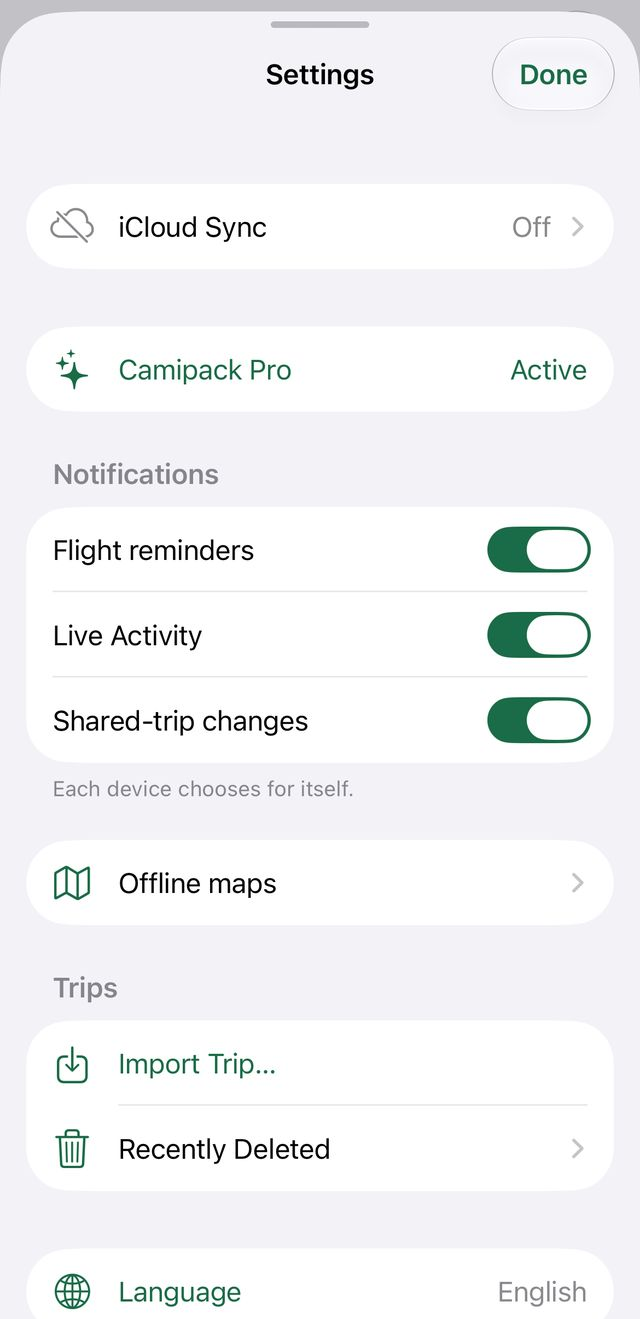
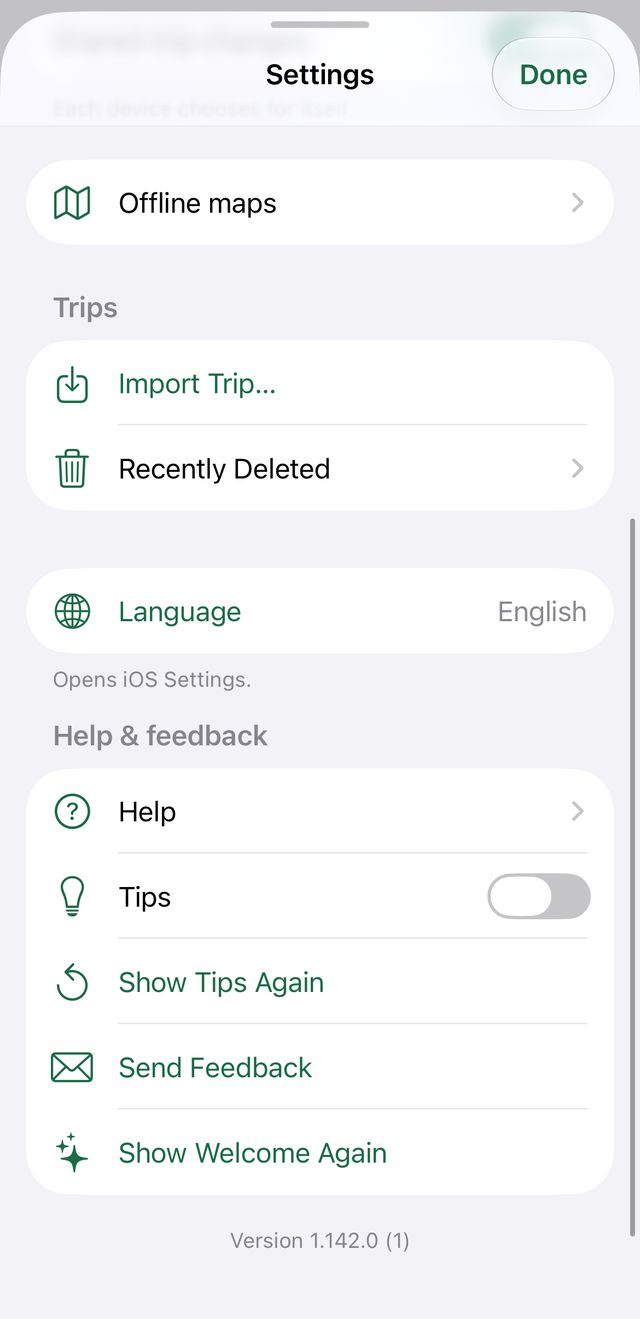
fix(guides): Settings shots without Pro status
Re-captured four Settings steps on a plain install so the Pro row
shows no "Active" badge; the privacy step now shows Send Feedback.

Claude-Session: https://claude.ai/code/session_01AAxPpWSm55AgTGJcXfUx3h

diff --git a/docs/guides/travel.html b/docs/guides/travel.html
@@ -93,7 +93,7 @@
     <li class="gstep"><div><span class="num">2</span><p>Or add one by hand: in a day, tap + and choose Travel. Type the flight number and tap “Check flight”.</p></div>
       <div class="phone"><div class="shot"><img src="img/travel-2.jpg" alt="Step 2: Flights, trains and ferries" loading="lazy"><span class="tap zone" aria-hidden="true" style="left:5.8%;top:91.8%;width:88.4%;height:7.4%"></span></div></div></li>
     <li class="gstep"><div><span class="num">3</span><p>You are reminded the evening before, and five hours before departure. Both can be switched off in Settings, under Notifications.</p></div>
-      <div class="phone"><div class="shot"><img src="img/travel-3.jpg" alt="Step 3: Flights, trains and ferries" loading="lazy"><span class="tap zone" aria-hidden="true" style="left:4.4%;top:38.8%;width:91.2%;height:6.2%"></span></div></div></li>
+      <div class="phone"><div class="shot"><img src="img/travel-3.jpg" alt="Step 3: Flights, trains and ferries" loading="lazy"><span class="tap zone" aria-hidden="true" style="left:4.4%;top:40.4%;width:91.2%;height:6.3%"></span></div></div></li>
     <li class="gstep"><div><span class="num">4</span><p>Tap the Lock Screen card to open the flight: its status, directions to the terminal, and the ticket you filed.</p></div>
       <div class="phone"><div class="shot"><img src="img/travel-4.jpg" alt="Step 4: Flights, trains and ferries" loading="lazy"></div></div></li>
     <li class="gstep noshot"><div><span class="num">5</span><p>Trains, buses and ferries work the same way, in their own words — a train has a platform, a ferry has a berth.</p></div></li>

diff --git a/docs/guides/sharing.html b/docs/guides/sharing.html
@@ -94,7 +94,7 @@
       <div class="phone"><div class="shot"><img src="img/sharing-2.jpg" alt="Step 2: Share a trip with family or friends" loading="lazy"><span class="tap ring" aria-hidden="true" style="left:57.5%;top:2.3%;width:13.0%;height:6.8%"></span></div></div></li>
     <li class="gstep noshot"><div><span class="num">3</span><p>The other person taps the link and then “Join Trip”. The trip appears in their Camipack.</p></div></li>
     <li class="gstep"><div><span class="num">4</span><p>Settings on the home screen shows sync status — tap it, then iCloud Sync, for details or to pause syncing.</p></div>
-      <div class="phone"><div class="shot"><img src="img/sharing-4.jpg" alt="Step 4: Share a trip with family or friends" loading="lazy"><span class="tap zone" aria-hidden="true" style="left:4.4%;top:13.8%;width:91.2%;height:6.8%"></span></div></div></li>
+      <div class="phone"><div class="shot"><img src="img/sharing-4.jpg" alt="Step 4: Share a trip with family or friends" loading="lazy"><span class="tap zone" aria-hidden="true" style="left:4.4%;top:14.0%;width:91.2%;height:6.3%"></span></div></div></li>
     <li class="gstep"><div><span class="num">5</span><p>To end sharing later: same ⋯ menu → “Stop Sharing”. The trip disappears from their device.</p></div>
       <div class="phone"><div class="shot"><img src="img/sharing-5.jpg" alt="Step 5: Share a trip with family or friends" loading="lazy"></div></div></li>
   </ol>

diff --git a/docs/guides/importexport.html b/docs/guides/importexport.html
@@ -98,7 +98,7 @@
   </script>
   <ol class="gsteps">
     <li class="gstep"><div><span class="num">1</span><p>To import: tap Settings in the top-left of the home screen, then “Import Trip…”, and pick a .camipack file.</p></div>
-      <div class="phone"><div class="shot"><img src="img/importexport-1.jpg" alt="Step 1: Import &amp; export" loading="lazy"><span class="tap zone" aria-hidden="true" style="left:4.4%;top:77.5%;width:91.2%;height:6.4%"></span></div></div></li>
+      <div class="phone"><div class="shot"><img src="img/importexport-1.jpg" alt="Step 1: Import &amp; export" loading="lazy"><span class="tap zone" aria-hidden="true" style="left:4.4%;top:79.4%;width:91.2%;height:6.3%"></span></div></div></li>
     <li class="gstep"><div><span class="num">2</span><p>To export: open the trip, tap ⋯ top right, then “Share &amp; Export” and “Trip File…”.</p></div>
       <div class="phone"><div class="shot"><img src="img/importexport-2.jpg" alt="Step 2: Import &amp; export" loading="lazy"><span class="tap zone" aria-hidden="true" style="left:38.3%;top:38.8%;width:55.5%;height:5.4%"></span></div></div></li>
   </ol>

diff --git a/docs/guides/privacy.html b/docs/guides/privacy.html
@@ -98,7 +98,7 @@
   </script>
   <ol class="gsteps">
     <li class="gstep"><div><span class="num">1</span><p>Found a bug or have an idea? Tap Settings on the home screen, then “Send Feedback” — it pre-fills an email with your version details.</p></div>
-      <div class="phone"><div class="shot"><img src="img/privacy-1.jpg" alt="Step 1: Privacy &amp; iCloud" loading="lazy"></div></div></li>
+      <div class="phone"><div class="shot"><img src="img/privacy-1.jpg" alt="Step 1: Privacy &amp; iCloud" loading="lazy"><span class="tap zone" aria-hidden="true" style="left:4.4%;top:77.7%;width:91.2%;height:6.4%"></span></div></div></li>
   </ol>
   <nav class="pager" aria-label="More guides">
     <a class="prev" href="importexport.html"><span class="lbl">‹ Previous</span>Import &amp; export</a>
